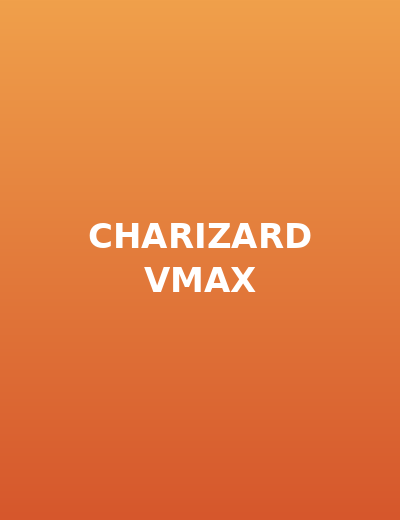
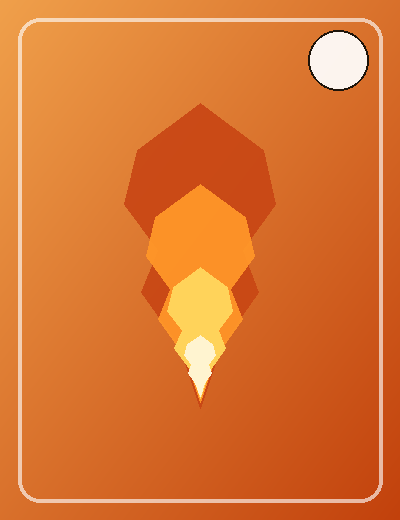
Fix home page: cards were wrapping, leaderboard preview was unstyled
Follow-up to the home page redesign, from direct feedback after seeing
it live:

- Hero showcase cards were wrapping to a second row instead of sitting
  side by side. Root cause: hero-split's 1.15fr/0.85fr grid only gave
  the showcase column ~462px at max width (less at anything narrower),
  but 3 fixed-168px cards + gaps needed 536px. Rebalanced the grid to
  1fr/1fr (the copy column's text was already capped at max-width:440px,
  so it didn't need the extra share) and switched the cards to
  flex-shrink so all 3 always stay in one row, shrinking together
  instead of wrapping. Below 640px width, where shrinking would push
  them smaller than GameCard is ever meant to render, they switch to a
  horizontally scrollable row at a fixed legible size instead.
- The 3 demo cover images were flat color + text — replaced with actual
  illustrative artwork (a flame emblem for the trading card, a
  radiating burst + corner web lines for the comic, a real vinyl record
  graphic) so they read as pictures of the items, not placeholder cards.
- The home page's small leaderboard preview ("Public profiles &
  leaderboards" section) had never had any CSS behind its row/rank
  classes — turns out those were leftover from before the real
  /leaderboard page moved to a podium layout, and nothing was ever
  written for them here. Added proper card-style row styling (matching
  the site's existing .feed-item pattern) and cover thumbnails per row
[…]

diff --git a/app/globals.css b/app/globals.css
@@ -1441,8 +1441,8 @@ button:disabled {
 /* ---------- Landing page ---------- */
 .hero-split {
   display: grid;
-  grid-template-columns: 1.15fr 0.85fr;
-  gap: 48px;
+  grid-template-columns: 1fr 1fr;
+  gap: 32px;
   align-items: center;
   padding: 64px 0 20px;
 }
@@ -1499,18 +1499,20 @@ button:disabled {
 }
 
 /* Real GameCard components, not a redrawn mockup — this is literally
-   what your own dashboard grid looks like. A light stagger/rotation on
-   the outer two keeps the "shelf" feel the old hand-drawn stack had. */
+   what your own dashboard grid looks like. Always exactly 3 in a row
+   (flex-wrap is intentionally NOT set): they shrink together to fit
+   whatever width the column has rather than ever dropping to a second
+   line. A light stagger/rotation on the outer two keeps the "shelf"
+   feel the old hand-drawn stack had. */
 .hero-showcase {
   display: flex;
-  flex-wrap: wrap;
   align-items: flex-end;
   justify-content: center;
-  gap: 16px;
+  gap: 10px;
 }
 .hero-showcase-item {
-  width: 168px;
-  flex: 0 0 168px;
+  flex: 0 1 150px;
+  min-width: 0;
 }
 .hero-showcase-item:nth-child(1) {
   transform: rotate(-4deg);
@@ -1556,6 +1558,35 @@ button:disabled {
   border-radius: var(--radius);
   padding: 18px;
   box-shadow: var(--shadow);
+}
+
+/* Home page's small leaderboard preview — these classes never actually
+   had CSS behind them before (the real /leaderboard page moved to a
+   podium layout a while back and these were left unstyled), so this
+   was rendering as bare, borderless text rows. */
+.leaderboard-row {
+  display: flex;
+  align-items: center;
+  gap: 10px;
+  padding: 8px 10px;
+  border: 1px solid var(--border);
+  background: var(--bg-alt);
+  border-radius: 10px;
+  margin-bottom: 8px;
+}
+.leaderboard-rank {
+  width: 22px;
+  height: 22px;
+  border-radius: 50%;
+  background: var(--card);
+  border: 1px solid var(--border);
+  display: flex;
+  align-items: center;
+  justify-content: center;
+  font-size: 11px;
+  font-weight: 800;
+  color: var(--text-dim);
+  flex-shrink: 0;
 }
 
 .cta-band {
@@ -1998,13 +2029,6 @@ button:disabled {
   .hero-showcase {
     margin-top: 20px;
   }
-  .hero-showcase-item {
-    width: 130px;
-    flex: 0 0 130px;
-  }
-  .hero-showcase-item:nth-child(2) {
-    transform: translateY(-8px);
-  }
   .value-row,
   .value-row.reverse {
     grid-template-columns: 1fr;
@@ -2025,6 +2049,20 @@ button:disabled {
   }
   .row2 {
     grid-template-columns: 1fr;
+  }
+
+  /* Below this width, shrinking all 3 cards to fit would squeeze them
+     smaller than GameCard is ever meant to render (the real dashboard
+     grid never goes under 180px). A short horizontal swipe reads
+     better than illegibly cramped cards. */
+  .hero-showcase {
+    justify-content: flex-start;
+    overflow-x: auto;
+    padding: 4px 4px 10px;
+    -webkit-overflow-scrolling: touch;
+  }
+  .hero-showcase-item {
+    flex: 0 0 140px;
   }
 
   /* Five-plus nav links plus a theme toggle used to just wrap onto

diff --git a/app/page.js b/app/page.js
@@ -2,6 +2,7 @@ import Link from 'next/link';
 import { createClient } from '@/lib/supabaseServer';
 import GameCard from '@/components/GameCard';
 import TrophyCase from '@/components/TrophyCase';
+import { CoverThumb } from '@/components/LeaderboardThumb';
 
 const CATEGORIES = ['Video Games', 'Comics', 'Trading Cards', 'Vinyl Records', 'Books', 'DVDs', 'CDs'];
 
@@ -83,12 +84,13 @@ export default async function HomePage() {
     ? realLeaderboard.map((row, i) => ({
         rank: i + 1,
         title: row.title,
+        cover: row.cover,
         sub: `${row.owner_count} owner${row.owner_count === 1 ? '' : 's'}`,
       }))
     : [
-        { rank: 1, title: 'Elden Ring', sub: '412 owners' },
-        { rank: 2, title: 'The Last of Us', sub: '388 owners' },
-        { rank: 3, title: 'Amazing Spider-Man #300', sub: '301 owners' },
+        { rank: 1, title: 'Elden Ring', cover: '/demo/elden-demo.png', sub: '412 owners' },
+        { rank: 2, title: 'The Last of Us', cover: '/demo/tlou-demo.png', sub: '388 owners' },
+        { rank: 3, title: 'Amazing Spider-Man #300', cover: '/demo/comic-demo.png', sub: '301 owners' },
       ];
 
   return (
@@ -177,7 +179,10 @@ export default async function HomePage() {
 
         <div className="value-row">
           <div className="value-text">
-            <div className="value-title">Public profiles &amp; leaderboards</div>
+            <div className="value-title">
+              Public profiles &amp; leaderboards
+              {!realLeaderboard && <span className="category-pill" style={{ marginLeft: 8, verticalAlign: 'middle' }}>Example</span>}
+            </div>
             <div className="value-body">
               Share a link to your shelf, follow other collectors, and see the most-owned items,
               the biggest public collections, and what's trending — or keep everything private,
@@ -191,13 +196,11 @@ export default async function HomePage() {
             {leaderboardRows.map((row, i) => (
               <div className="leaderboard-row" style={i === leaderboardRows.length - 1 ? { marginBottom: 0 } : undefined} key={row.rank}>
                 <div className="leaderboard-rank">{row.rank}</div>
+                <CoverThumb cover={row.cover} title={row.title} />
                 <div style={{ flex: 1, fontSize: 13, fontWeight: 600 }}>{row.title}</div>
                 <div className="sub" style={{ margin: 0 }}>{row.sub}</div>
               </div>
             ))}
-            {!realLeaderboard && (
-              <div className="sub" style={{ marginTop: 8, fontSize: 11 }}>Illustrative example — updates automatically as collectors join.</div>
-            )}
           </div>
         </div>
       </div>
